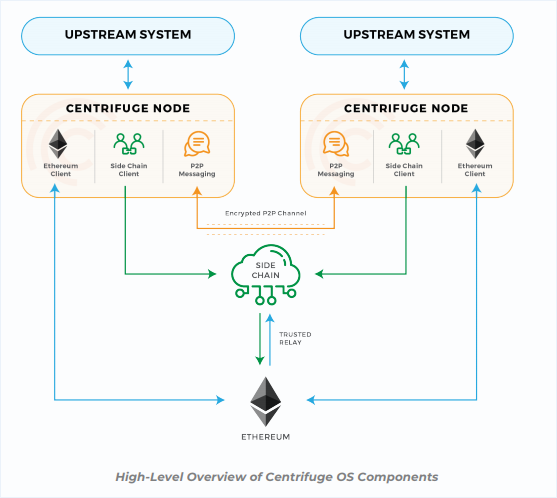
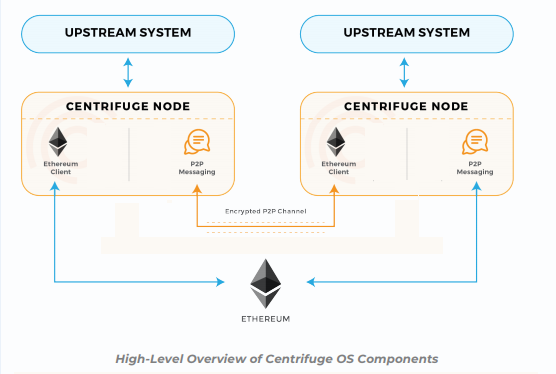
Feedback comments incorporated, updates to image.

diff --git a/docs/overview/Introduction.md b/docs/overview/Introduction.md
@@ -18,51 +18,49 @@ For more information, see [Ethereum Project](https://www.ethereum.org/)
 
 ## Centrifuge Identity
 
-A Centrifuge Identity (CentrifugeID) is a unique ID assigned to a participant of the Centrifuge OS in a network. When a new CentrifugeID is generated, a unique public representation of the Identity is created in the public blockchain as a _smart contract_. The data associated with a CentrifugeID is only modifiable by the creator and/or a delegate chosen by the creator.
+A Centrifuge Identity (CentrifugeID) is a unique ID assigned to a participant of the Centrifuge OS in a network. When a new CentrifugeID is generated, a unique public representation of the identity is created in the public blockchain as a _smart contract_. The data associated with a CentrifugeID is only modifiable by the creator and/or a delegate chosen by the creator.
 
 A CentrifugeID has the following credentials:
 
 * Peer to Peer Messaging Encryption Keys: are responsible for message encryption. These keys are used to identify the nodes over the P2P protocol.
 
-* Signing Keys: Documents that pass through the P2P layer are signed with the signing keys. These signatures are a part of the merkle root that is anchored on the public chain and verifiable at a later time.
+* Signing Keys: Documents that pass through the P2P layer are signed with the signing keys. These signatures are a part of the Merkle root that is anchored on the public chain and verifiable at a later time.
 
 * Ethereuem Accounts: When interacting with a smart contract on Ethereum, an account needs to be linked to the identity to act on its behalf. The linked Ethereum accounts are the accounts that are allowed to interact with DApps utilizing Centrifuge OS.
 
 Centrifuge OS users register their identity on the public Ethereum network and
 maintain a set of public keys as part of their identity. These identities and their keys are used to resolve nodes on the P2P layer when one node wants to transmit data to
 another Centrifuge user. This means that nodes on the P2P layer find others by
-looking up their public keys from the public identity register based on CentrifugeID.
+looking up their public keys from the public identity register.
 
 ## Centrifuge Peer-to-Peer Network
 
-A peer-to-peer (P2P) network consists of two or more systems connected and sharing resources without going through a separate server. Centrifuge consists of a P2P network for decentralized data exchange using smart contracts on Ethereum. The Centrifuge P2P node supports handling of incoming and outgoing data using a service bus principal where plugins and outside systems can subscribe to messages about specific objects.
+A peer-to-peer (P2P) network consists of multiple systems connected and sharing resources without going through a separate server. Centrifuge consists of a P2P network for decentralized data exchange using smart contracts on Ethereum. The Centrifuge P2P node supports handling of incoming and outgoing data  and the interpretation on the client side.
 
 ## Centrifuge Node
 
 The Centrifuge Node serves an interface to the upstream system in addition to being a part of the peer to peer network that forms the Centrifuge OS ecosystem.<!-- (Need more information here).-->
-
+<!---
 ## Centrifuge Sidechain
 
 The Centrifuge sidechain is a public Ethereum-based blockchain that deploys proof-of-authority consensus algorithm. The collaborators operating on the sidechain are voted in or out based on a token curated registry (TCR) located on the Ethereum mainnet.
+--->
+## Merkle Tree
 
-## Merkel Tree
+A Merkle tree is a data structure in which every leaf node is assigned a hash of the data block and every non-leaf node is the hash of the hash of its child nodes. A Merkle tree allows to validate that any element in a large set of values is a part of a set. In the Ethereum blockchain, Merkle trees are created for each block to verify that a specific transaction is part of a mined block.
 
-In a block, the Merkel tree is a tree in which every lead node is assigned a hash of the data block and every non-leaf node is labelled with a cryptographic hash of the lables of its child nodes. Merkel trees allow you to validate that any element in a large set of values is a part of one Merkel root hash. In the Ethereum blockchain, Merkle trees are created for each block to verify that a specific transaction is part of a mined block.
-
-Centrifuge OS uses Merkel trees fir proving data validation for documents. In the Centrifuge OS, Merkel trees can be used to share the subset of a document with a third party to prove authenticity of the whole data structure while keeping the rest of the document private.
+Centrifuge OS uses Merkle trees for proving data validation for documents. In the Centrifuge OS, Merkle trees can be used to share the subset of a document with a third party to prove authenticity of the whole data structure while keeping the rest of the document private.
 
 ## Webhooks
 
-An application using Webhooks will POST a message to an URL when certain events occur. In the Centrifuge OS, webhooks are generally a REST API endpoint that you can set the in the `config.yaml` file. Currently, webhooks for Centrifuge node exist in the Ethereum blockchain and are not maintained by the Centrifuge node.   
+An application using Webhooks will POST a message to an URL when certain events occur. In the Centrifuge OS, webhooks are generally a REST API endpoint that you can set the in the `config.yaml` file. Currently, webhooks for Centrifuge Node should be developed by the user following our swagger notification API message model.
 
 ## Centrifuge OS Architecture
 
 The core components of the Centrifuge OS are:
 
 * Contracts deployed on Ethereum.
-
 * Centrifuge nodes that facilitate data exchange on a P2P layer.
-
 * An Ethereum-based sidechain with Centrifuge specific contracts and data.
 
 The following image describes the Centrifuge OS architecture and the components:
